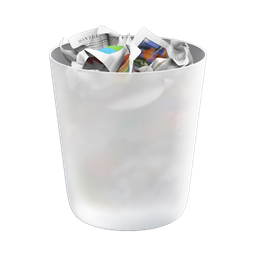
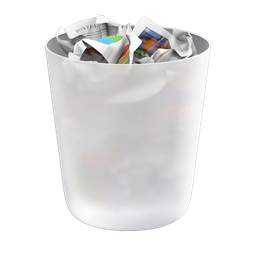
Trash: same bin in the empty and full states
Both states were fitted to the same height, so the full bin (papers above
the rim) came out smaller and the Dock icon jumped when a file was thrown
away. Now both are scaled by the bin's width and bottom-aligned; only the
papers stick out.

Claude-Session: https://claude.ai/code/session_01N7JoeQfrsPDc9KJ6PPJnyx

Changed region(s): [[0.1562, 0.0625, 0.8438, 0.875], [0.6562, 0.8438, 0.6875, 0.875]]

diff --git a/tools/process_dock_icons.py b/tools/process_dock_icons.py
@@ -38,8 +38,6 @@ MAC_ICONS = {
     "calculator.png":       "calculator.png",
     "settings.png":         "settings.png",
     "mail.png":             "mail.png",
-    "trash bin empty.png":  "trash-empty.png",
-    "trash bin full.png":   "trash-full.png",
     "xcode.png":            "xcode.png",
 }
 
@@ -125,13 +123,36 @@ def process_mac(src_name: str, out_name: str) -> None:
     print(f"  mac    {src_name:30s} -> {out_name}  ({img.width}x{img.height}){note}")
 
 
+def process_trash() -> None:
+    """Empty and full Trash must show the very same bin, or the Dock icon jumps
+    when something is thrown away. Both are scaled by the bin's WIDTH (the empty
+    one fills SAFE in height) and bottom-aligned; the papers of the full one
+    simply stick out above the rim, as on macOS."""
+    empty = Image.open(SRC / "trash bin empty.png").convert("RGBA")
+    empty = empty.crop(opaque_bbox(empty))
+    full = Image.open(SRC / "trash bin full.png").convert("RGBA")
+    full = full.crop(opaque_bbox(full))
+
+    empty = fit_preserving_aspect(empty, SAFE)
+    width = empty.width
+    full = full.resize((width, round(full.height * width / full.width)), Image.LANCZOS)
+
+    bottom = (CANVAS + SAFE) // 2
+    for img, out_name in ((empty, "trash-empty.png"), (full, "trash-full.png")):
+        canvas = Image.new("RGBA", (CANVAS, CANVAS), (0, 0, 0, 0))
+        canvas.paste(img, ((CANVAS - img.width) // 2, bottom - img.height), img)
+        canvas.resize((OUTPUT, OUTPUT), Image.LANCZOS).save(OUT / out_name, "PNG", optimize=True)
+        print(f"  trash  -> {out_name}  ({img.width}x{img.height}, bottom-aligned)")
+
+
 def main() -> None:
     print(f"Writing to {OUT}")
     for src, out in IOS_APPS.items():
         process_ios(src, out)
     for src, out in MAC_ICONS.items():
         process_mac(src, out)
-    print(f"Done. {len(IOS_APPS) + len(MAC_ICONS)} icons written.")
+    process_trash()
+    print(f"Done. {len(IOS_APPS) + len(MAC_ICONS) + 2} icons written.")
 
 
 if __name__ == "__main__":
